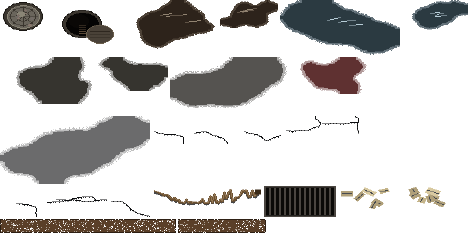
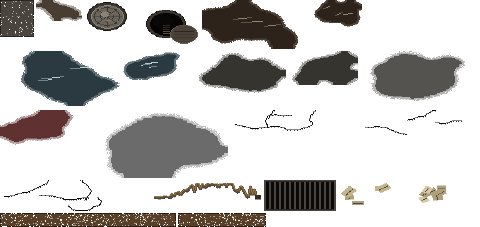
v2: cemitério nos lotes vazios e poço na praça da Vila Amaldiçoada; textos curtos nas conquistas (#429)
Os dois lotes V viram camposanto (lápides e cruzes sobre túmulos, com decalques de laje e terra revolvida) e a praça B ganha o poço no lugar da lixeira do canto. Só mudam 15 objetos do JSON (7 saem, 8 de cemitério e 1 poço entram); nascimento fica preservado pelo gerador (PRESERVAR) e a colisão dos 41 tipos antigos é a mesma. A recompensa das conquistas passa a dizer 'a Torre e o Altar' e 'a Vila e o Olho para o raro' para caber no cartão do santuário.

diff --git a/jogos/hordas/fonte_arte/mapas_v2/def_cidade.py b/jogos/hordas/fonte_arte/mapas_v2/def_cidade.py
@@ -16,6 +16,7 @@ from kit_decalques import cor
 
 SEMENTE = 47
 W, H = 2880, 1620
+PRESERVAR = ["nascimento"]   # as zonas de monstros (e quem mexer nelas, como a #430) não mudam quando a vila é regerada
 AJUDA = (
     "A Vila Amaldiçoada da v2 (id cidade, 2880x1620 = 3x3 telas, y para baixo), lida por v2/cenario.gd como o laboratório (mesmo formato; veja v2_floresta.json), com "
     "\"mapa.pastas\" apontando para a arte (assets/v2/mapas/cidade), \"minimapa\" (cores do minimapa por objeto e decalque) e \"atmosfera\" (partículas "
@@ -64,6 +65,8 @@ def _mancha(w, h, c="14100c", alfa=190):
 
 
 DECALQUES = {
+    "laje_tumulo": lambda rng: kd.retangulo(34, 52, cor("4a463f"), cor("2a2724"), rng, 0.05),   # a laje de pedra sobre a sepultura
+    "tumulo_terra": lambda rng: kd.mancha(46, 30, rng, cor("3a2c20"), alfa=215),                  # terra revolvida
     "bueiro": lambda rng: dc.bueiro(rng),
     "bueiro_aberto": lambda rng: dc.bueiro(rng, aberto=True),
     "poca_oleo_g": _poca_oleo(100, 70),
@@ -104,7 +107,7 @@ MINIMAPA = {
         "carro_a": ["7d5c3a", 1], "carro_b": ["7d5c3a", 1], "carro_c": ["7d5c3a", 1], "carro_queimado": ["2b2b2b", 1],
         "carro_a_v": ["7d5c3a", 1], "carro_b_v": ["7d5c3a", 1], "carro_c_v": ["7d5c3a", 1],
         "muro_tijolo": ["8a8478", 1], "muro_quebrado": ["8a8478", 1], "barricada_concreto": ["8a8478", 1],
-        "barricada_madeira": ["8a6a3a", 1], "sacos_areia": ["a89a72", 1], "lixeira_azul": ["8aa0b0", 1],
+        "barricada_madeira": ["8a6a3a", 1], "sacos_areia": ["a89a72", 1], "lixeira_azul": ["8aa0b0", 1], "lapide": ["a39d90", 1], "cruz_tumulo": ["7d5c3a", 1],
     },
     "decalques": {"bueiro": ["5a4a38", 1], "poca_chuva_g": ["4d7a8c", 2], "poca_oleo_g": ["3e3226", 1]},
 }
@@ -158,7 +161,7 @@ def montar(tam, rng):
             obj("banco", lx + 58, cy - 40)
             obj("banco", lx + 166, cy - 40)
             obj("barril_fogo", cx + 52, cy + 36)                    # fogueira de barril com luz laranja
-            obj("lixeira_metal", lx + 14, ly + 14)
+            obj("lixeira_azul", cx - 4, cy + 6)                     # o poço da praça (a pegada é a da antiga lixeira)
             obj("placa_neon", lx + 214, ly + 18)
             dec("mancha_sangue" if rng.random() < 0.4 else "mancha_b", lx + 90, cy + 40)
             dec("papeis_b", cx - 30, cy + 24, rng.random() < 0.5)
@@ -172,13 +175,17 @@ def montar(tam, rng):
             dec("mancha_sangue", lx + 150, cy + 56, rng.random() < 0.5)
             obj("pneus", lx + 196, ly + 120)
         elif tipo == "V":
-            obj("barricada_madeira", lx + 60, ly + lh - 34)        # tapume no sul do lote
-            obj("cone", lx + 200, cy + 30)
+            # CEMITÉRIO: o lote vazio vira camposanto, com a cerca de estacas ao sul, quatro lápides, três cruzes sobre túmulos e terra revolvida
+            obj("barricada_madeira", lx + 60, ly + lh - 34)
             dec("rachadura_c", cx - 20, cy - 18, rng.random() < 0.5)
             dec("poca_chuva_g", lx + 150, cy - 30, rng.random() < 0.5)
             dec("mancha_c", cx + 40, cy + 40, rng.random() < 0.5)
-            obj("cone", lx + 44, cy + 64)
-            obj("sacos_areia", lx + 170, cy + 58)
+            for k in range(4):
+                obj("lapide", lx + 28 + 56 * k, ly + 44)
+                dec("laje_tumulo", lx + 28 + 56 * k, ly + 56)
+            for k in range(3):
+                obj("cruz_tumulo", lx + 56 + 56 * k, ly + 92)
+                dec("tumulo_terra", lx + 56 + 56 * k, ly + 92)
         # calçada: um poste por quarteirão (canto alternado), lixeira e hidrante no meio-fio
         if (i + j) % 2 == 0:
             obj("poste_rua", bx + 8, by + 8)

diff --git a/jogos/hordas/fonte_arte/modelos3d/vila_pecas.py b/jogos/hordas/fonte_arte/modelos3d/vila_pecas.py
@@ -511,3 +511,25 @@ def ponto_onibus(r):
     esfera("pao", 0.18, (1.2, 0.05, 1.0), M("a8763a", 0.9), escala=(1.4, 0.8, 0.7))
     barra((0.75, -0.55, 1.95), (0.75, -0.55, 1.6), 0.01, ferro(), v=4)
     lanterna(0.75, -0.55, 1.35, VELA, 3.0, 1.3)
+
+
+# ------------------------------------------------------------------ cemitério (lotes vazios)
+def lapide(r):
+    """Lápide de pedra de topo arredondado, um pouco torta, com uma cruz gravada e musgo na base."""
+    B(0.52, 0.34, 0.12, 0, 0, 0.0, pedra(PEDRA_ESC), ch=0.03, rot=(0, 0, 0.08))
+    B(0.4, 0.14, 0.62, 0, 0, 0.1, pedra(PEDRA_CLARA), ch=0.04, rot=(0.04, 0.05, 0.08))
+    CR(0.2, 0.14, 0.0, 0.0, 0.72, pedra(PEDRA_CLARA), (math.pi / 2, 0, 0.08), v=12)
+    B(0.04, 0.03, 0.26, 0.0, -0.08, 0.5, M(CARVAO, 0.9), ch=0.0)
+    B(0.16, 0.03, 0.04, 0.0, -0.08, 0.64, M(CARVAO, 0.9), ch=0.0)
+    esfera("musgo", 1.0, (0.0, -0.12, 0.12), M(MUSGO, 0.98, 0.5, 0.3, 14.0), escala=(0.24, 0.1, 0.07))
+
+
+def cruz_tumulo(r):
+    """Monte de terra revolvida com uma cruz de madeira torta, uma tira de pano e uma vela apagada."""
+    esfera("monte", 1.0, (0.0, 0.1, 0.0), M("3a2c20", 0.98, 0.7, 0.4, 10.0), escala=(0.3, 0.55, 0.16))
+    for k in range(4):
+        B(0.12, 0.1, 0.06, -0.15 + k * 0.1, 0.1 + (k % 2) * 0.1, 0.1, pedra(), ch=0.02, rot=(0, 0, k))
+    B(0.07, 0.07, 1.2, 0.0, -0.2, 0.0, madeira(MADEIRA_ESC), ch=0.01, rot=(0.05, 0.06, 0.0))
+    B(0.5, 0.06, 0.07, 0.0, -0.2, 0.85, madeira(MADEIRA_ESC), ch=0.01, rot=(0, 0.06, 0.1))
+    B(0.05, 0.02, 0.2, 0.18, -0.24, 0.62, M("6e3030", 0.95), ch=0.0, rot=(0, 0, 0.1))
+    C(0.03, 0.1, 0.22, -0.3, 0.0, M("e8dcc0", 0.8), v=8)

diff --git a/jogos/hordas/fonte_arte/modelos3d/mapa_cidade.py b/jogos/hordas/fonte_arte/modelos3d/mapa_cidade.py
@@ -24,7 +24,7 @@ FUNCOES = {
     # ruas
     "poste_rua": P.poste_rua, "poste_rua_e": P.poste_rua_e, "poste_quebrado": P.poste_quebrado, "semaforo": P.semaforo,
     "semaforo_torto": P.semaforo_torto, "placa_pare": P.placa_pare, "placa_rua": P.placa_rua, "placa_neon": P.placa_neon,
-    "hidrante": P.hidrante, "cone": P.cone_transito, "cone_tombado": P.cone_tombado, "barril_fogo": P.barril_fogo,
+    "lapide": P.lapide, "cruz_tumulo": P.cruz_tumulo, "hidrante": P.hidrante, "cone": P.cone_transito, "cone_tombado": P.cone_tombado, "barril_fogo": P.barril_fogo,
     "lixeira_metal": P.lixeira_metal, "lixeira_rodas": P.lixeira_rodas, "lixeira_azul": P.lixeira_azul, "banco": P.banco,
     "ponto_onibus": P.ponto_onibus,
     # carroças (os "_v" ao longo de Y)

diff --git a/jogos/hordas/fonte_arte/mapas_v2/medidas_cidade.py b/jogos/hordas/fonte_arte/mapas_v2/medidas_cidade.py
@@ -49,6 +49,9 @@ MEDIDAS = {
     "lixeira_rodas": _m(0.68, 0.8, 1.1, lx=0.4, yb=0.9),
     "lixeira_azul": _m(0.68, 0.8, 1.1, lx=0.4, zmax=1.6),
     "banco": _m(1.8, 0.6, 0.95, lx=0.95),
+    # cemitério (#429): lápide de pedra e cruz de madeira sobre o túmulo
+    "lapide": _m(0.5, 0.3, 0.95, lx=0.4),
+    "cruz_tumulo": _m(0.6, 0.8, 1.45, lx=0.55, yb=0.5, yf=0.5),
     # adereços de rua
     "sacos_areia": _m(2.6, 0.8, 0.8, lx=1.4, yf=0.7),
     "barricada_concreto": _m(4.4, 1.0, 0.9, lx=2.4, zmax=0.95, yf=0.8),
